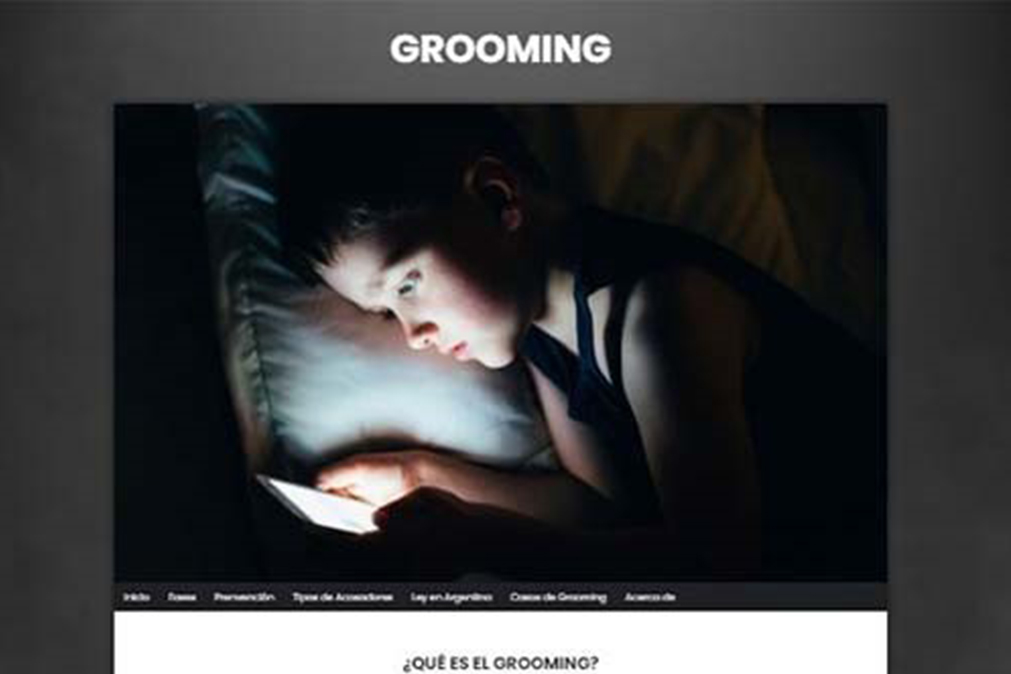
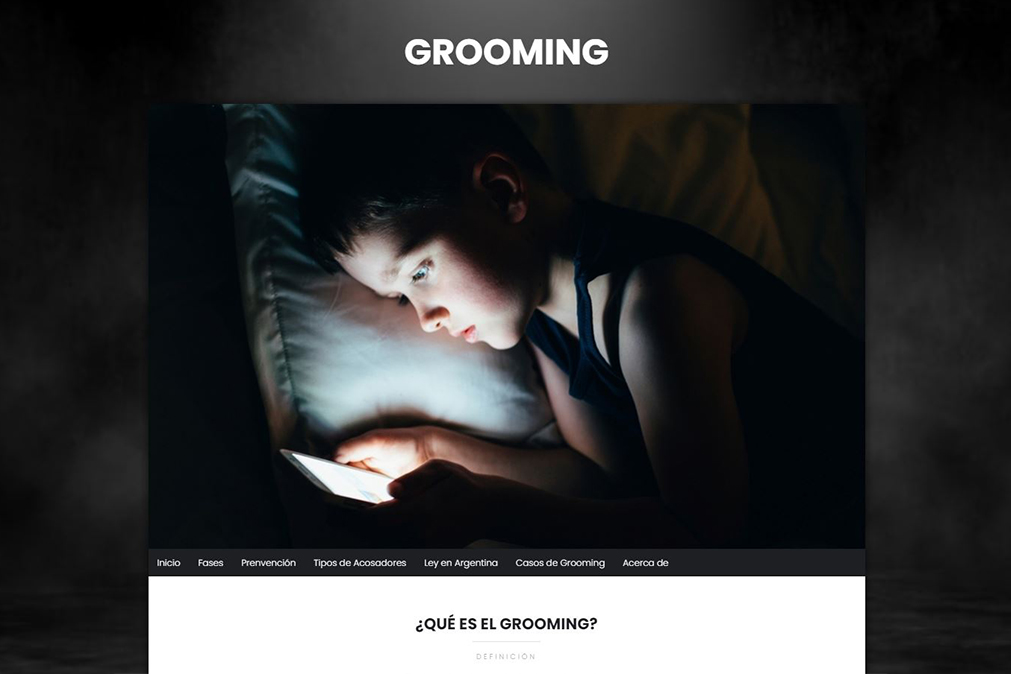
Pop up In Develop

diff --git a/assets/css/styles.css b/assets/css/styles.css
@@ -287,7 +287,7 @@ img{
 
 
 /* ===== ACTIVE MENU ===== */
-.active::after{
+.nav__link.active::after{
   position: absolute;
   content: "";
   width: 100%;
@@ -657,6 +657,7 @@ td .fas{
 
 .work__img img:hover{
   transform: scale(1.1);
+  filter:brightness(0.4);
 }
 
 .hab__img{
@@ -1156,6 +1157,126 @@ body::-webkit-scrollbar-thumb:active{
   background-color: var(--first-color);
 }
 
+
+/* ===== POPUP WORK=====*/
+
+.overlay {
+	background: rgba(0,0,0,.6);
+	position: fixed;
+	top: 0;
+	bottom: 0;
+	left: 0;
+	right: 0;
+	align-items: center;
+	justify-content: center;
+	display: flex;
+  visibility: hidden;
+  z-index: 1000;
+}
+
+.overlay.active {
+  visibility: visible;
+  overflow-y: hidden;
+}
+
+.popup {
+	background: var(--nav-color);
+	box-shadow: 0px 0px 5px 0px rgba(0,0,0,0.3);
+	border-radius: 28px 28px 25px 25px;
+	font-family: 'Montserrat', sans-serif;
+	padding: 20px;
+	text-align: center;
+  width: 700px;
+  height: 700px;
+
+	transition: .3s ease all;
+	transform: scale(0.7);
+  opacity: 0;
+}
+
+.popup .btn-cerrar-popup {
+	font-size: 25px;
+	line-height: 16px;
+	display: block;
+	text-align: right;
+	transition: .3s ease all;
+  color: #ffffff;
+  position: absolute;
+  right: 1.3rem;
+  top: 1rem;
+  z-index: 1;
+}
+
+.popup .btn-cerrar-popup:hover {
+	color: rgb(218, 218, 218);
+}
+
+.popup-img{
+  max-width: 100%;
+  display: block;
+  margin: auto;
+  width: 100%;
+  height: 50%;
+  border-radius: 25px 25px 0px 0px;
+  object-fit: cover;
+  object-position: top;
+  position: absolute;
+  top: 0px;
+  left: 0px;
+}
+
+.popup h3 {
+	font-size: 36px;
+	font-weight: 600;
+	margin-bottom: 10px;
+	opacity: 0;
+}
+
+.popup p {
+  font-size: 26px;
+  font-weight: 300;
+  opacity: 0;
+  color: #000;
+}
+
+
+
+/* ------------------------- */
+/* ANIMACIONES */
+/* ------------------------- */
+.popup.active {	transform: scale(1); opacity: 1; }
+.popup.active h3 { animation: entradaTitulo .8s ease .5s forwards; }
+.popup.active p { animation: entradaSubtitulo .8s ease .5s forwards; }
+.popup.active .contenedor-inputs { animation: entradaInputs 1s linear 1s forwards; }
+
+@keyframes entradaTitulo {
+	from {
+		opacity: 0;
+		transform: translateY(-25px);
+	}
+
+	to {
+		transform: translateY(0);
+		opacity: 1;
+	}
+}
+
+@keyframes entradaSubtitulo {
+	from {
+		opacity: 0;
+		transform: translateY(25px);
+	}
+
+	to {
+		transform: translateY(0);
+		opacity: 1;
+	}
+}
+
+@keyframes entradaInputs {
+	from { opacity: 0; }
+	to { opacity: 1; }
+}
 
 /* ===== IGNACIO PRADOS ===== */
 /* ===== IGNACIO PRADOS ===== */

diff --git a/index.html b/index.html
@@ -149,15 +149,15 @@
                     <div class="work__container bd-grid">
 
                         <div class="work__img">
-                            <a href="https://ignacioprados.github.io/grooming/" target="_blank" ><img src="assets/img/work1.jpg" alt="Proyecto sobre grooming"></a>
+                            <a><img src="assets/img/work1.jpg" alt="Proyecto sobre grooming" id="btn-abrir-popup" class="btn-abrir-popup"></a>
                         </div>
 
                         <div class="work__img">
-                            <a href="https://ignacioprados.github.io/cocinaconmigo/" target="_blank" ><img src="assets/img/work2.jpg" alt="Proyecto sobre recetas"></a>
+                            <a><img src="assets/img/work2.jpg" alt="Proyecto sobre recetas"></a>
                         </div>
 
                         <div class="work__img">
-                            <a href="https://ignacioprados.github.io/calculadora/" target="_blank" ><img src="assets/img/work3.JPG" alt="Proyecto sobre calculadora"></a>
+                            <a><img src="assets/img/work3.JPG" alt="Proyecto sobre calculadora"></a>
                         </div>
 
                         <div class="work__img">
@@ -178,6 +178,18 @@
                     <div class="ab__container bd-grid">
                         <a id="seemore" href="https://github.com/IgnacioPrados" target="_blank" class="button bd-grid" >Ver Más (GitHub)</a>
                     </div>
+
+                    <!-- ===== POPUP WORK ===== -->
+                    <div class="overlay" id="overlay">
+                        <div class="popup" id="popup">
+                            <a href="#" id="btn-cerrar-popup" class="btn-cerrar-popup"><i class="fas fa-times"></i></a>
+                            <img src="assets/img/work1.jpg" alt="Proyecto sobre grooming" class="popup-img">
+                            <hr>
+                            <h3>GROOMING</h3>
+                            <p>Página Web sobre el Grooming en Argentina. Creada con HTML5 - CSS3.</p>
+                        </div>
+                    </div>
+
 
             </section>
 

diff --git a/assets/js/main.js b/assets/js/main.js
@@ -209,6 +209,24 @@ function scrollActive(){
 }
 window.addEventListener('scroll', scrollActive)
 
+
+/* ===== POPUP WORK=====*/
+var btnAbrirPopup = document.getElementById('btn-abrir-popup'),
+	overlay = document.getElementById('overlay'),
+	popup = document.getElementById('popup'),
+	btnCerrarPopup = document.getElementById('btn-cerrar-popup');
+
+btnAbrirPopup.addEventListener('click', function(){
+	overlay.classList.add('active');
+    popup.classList.add('active');
+});
+
+btnCerrarPopup.addEventListener('click', function(e){
+	e.preventDefault();
+	overlay.classList.remove('active');
+	popup.classList.remove('active');
+});
+
 /* ===== IGNACIO PRADOS ===== */
 /* ===== IGNACIO PRADOS ===== */
 /* ===== IGNACIO PRADOS ===== */
